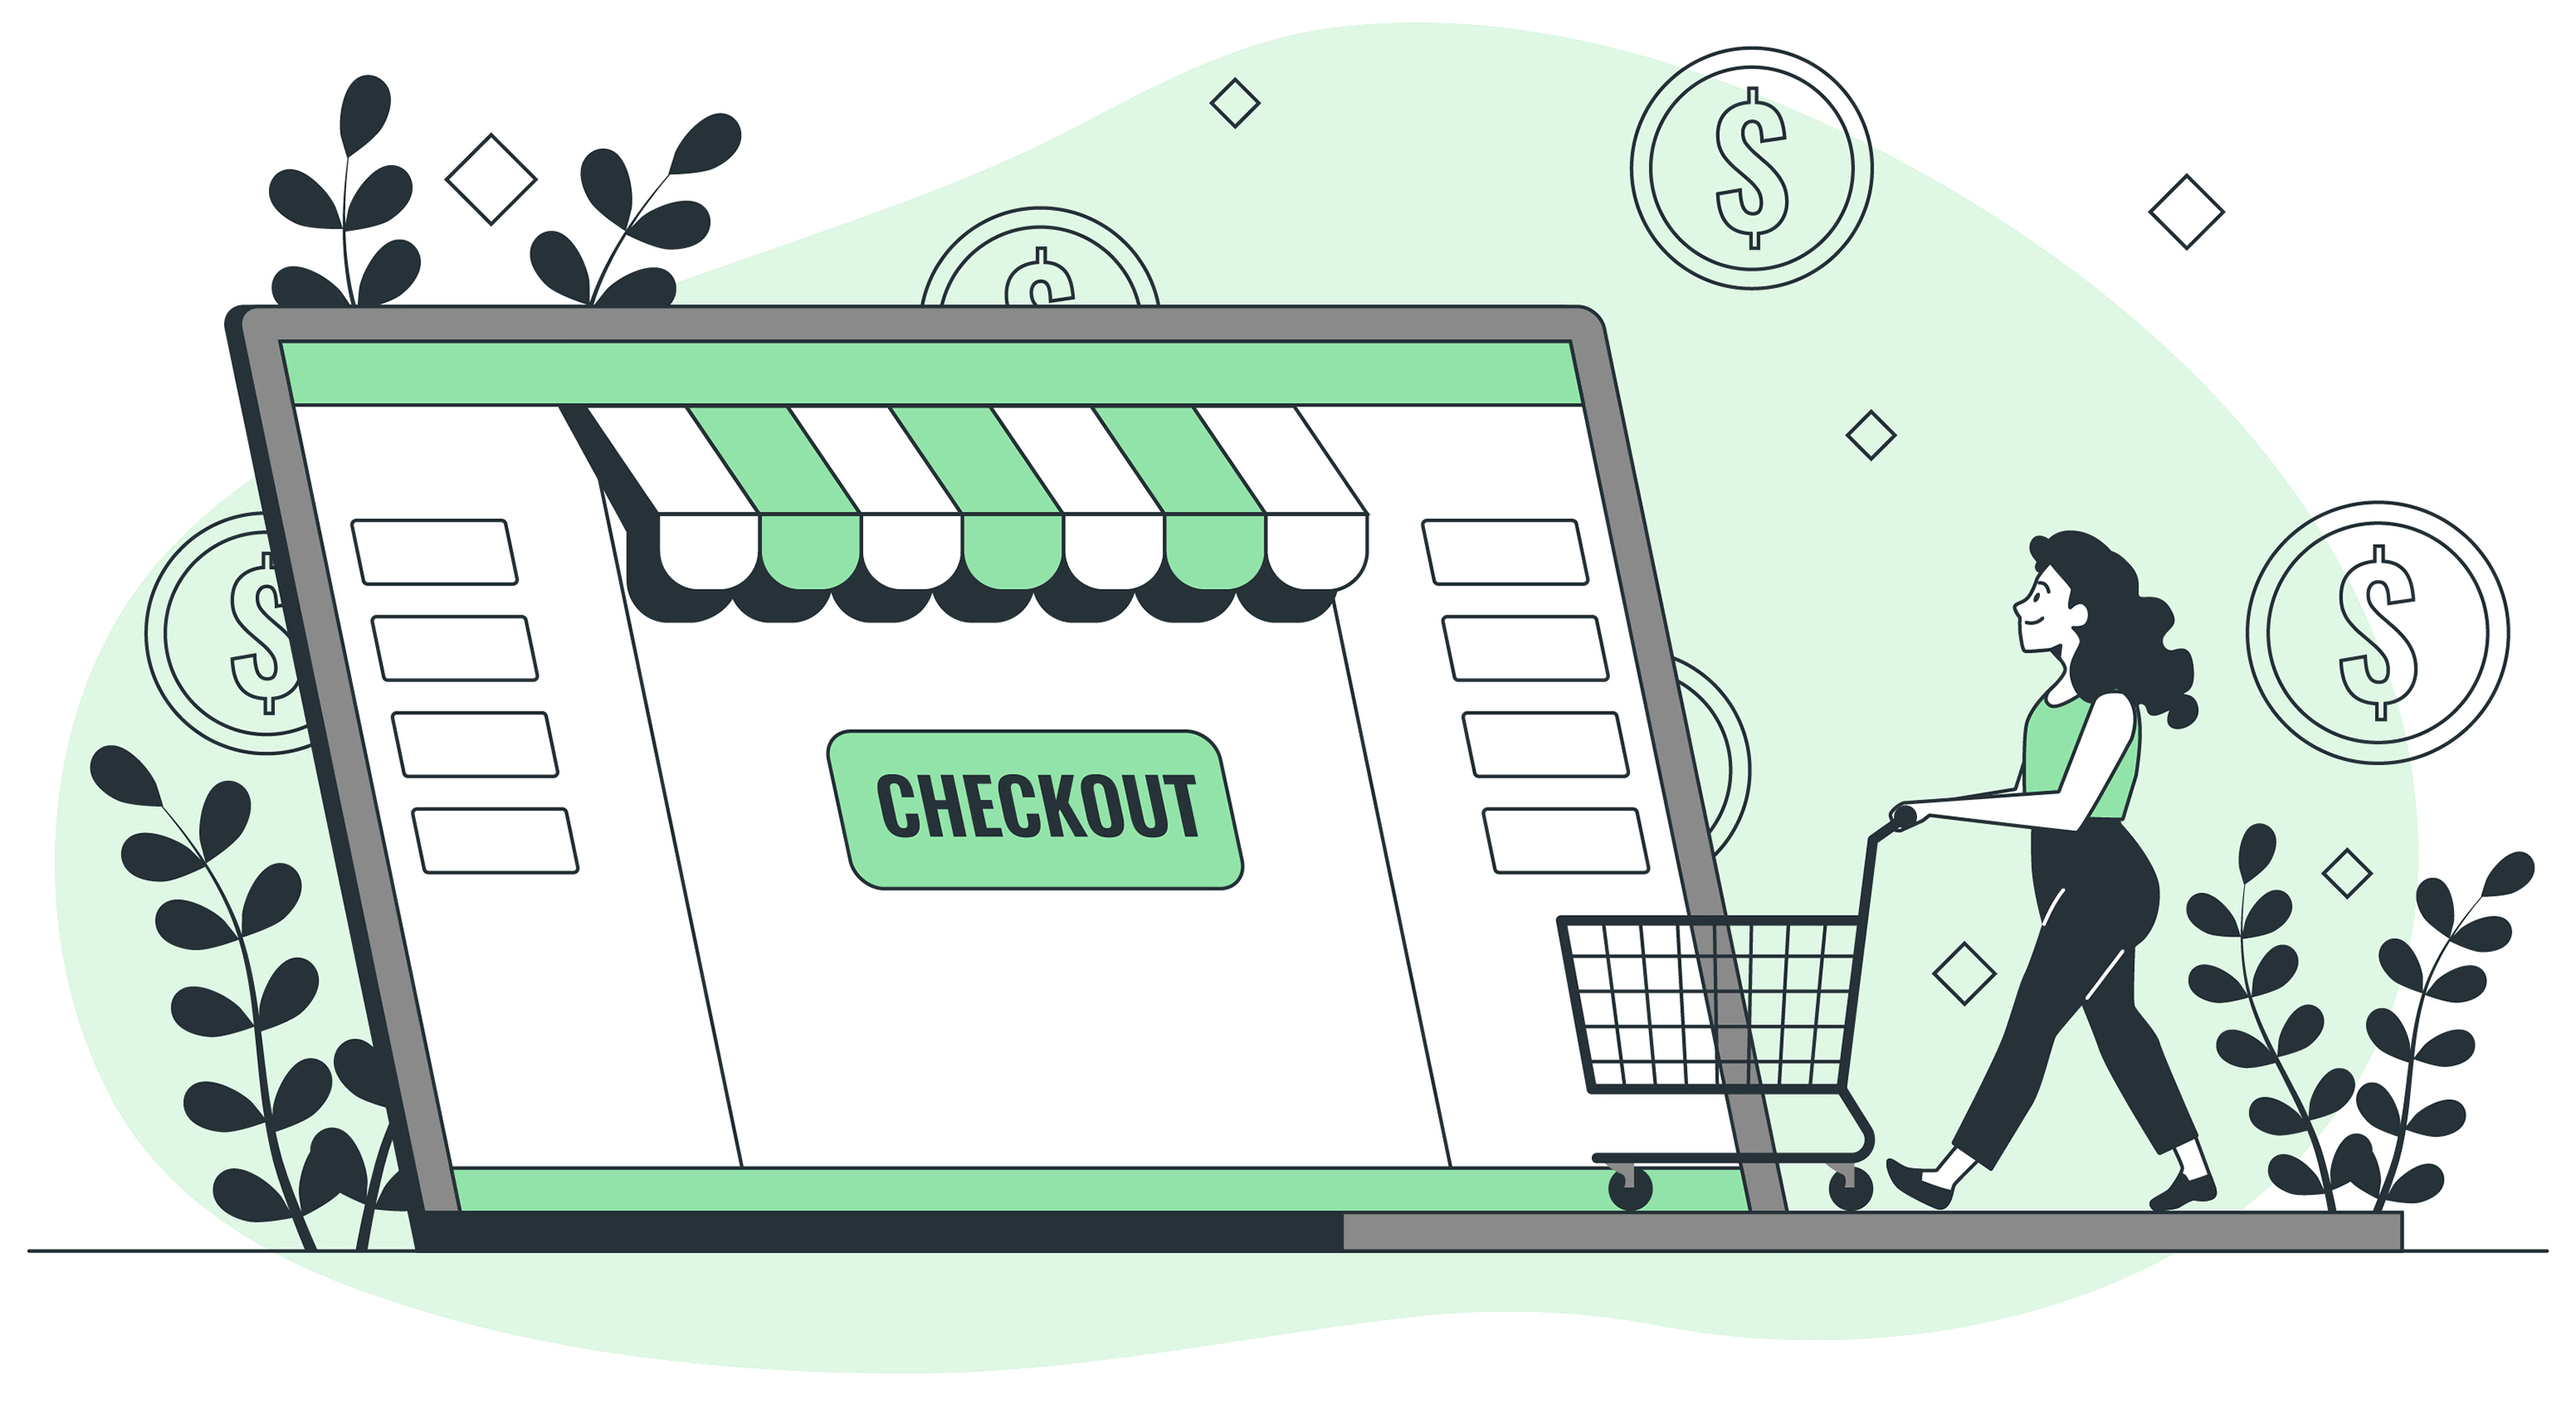
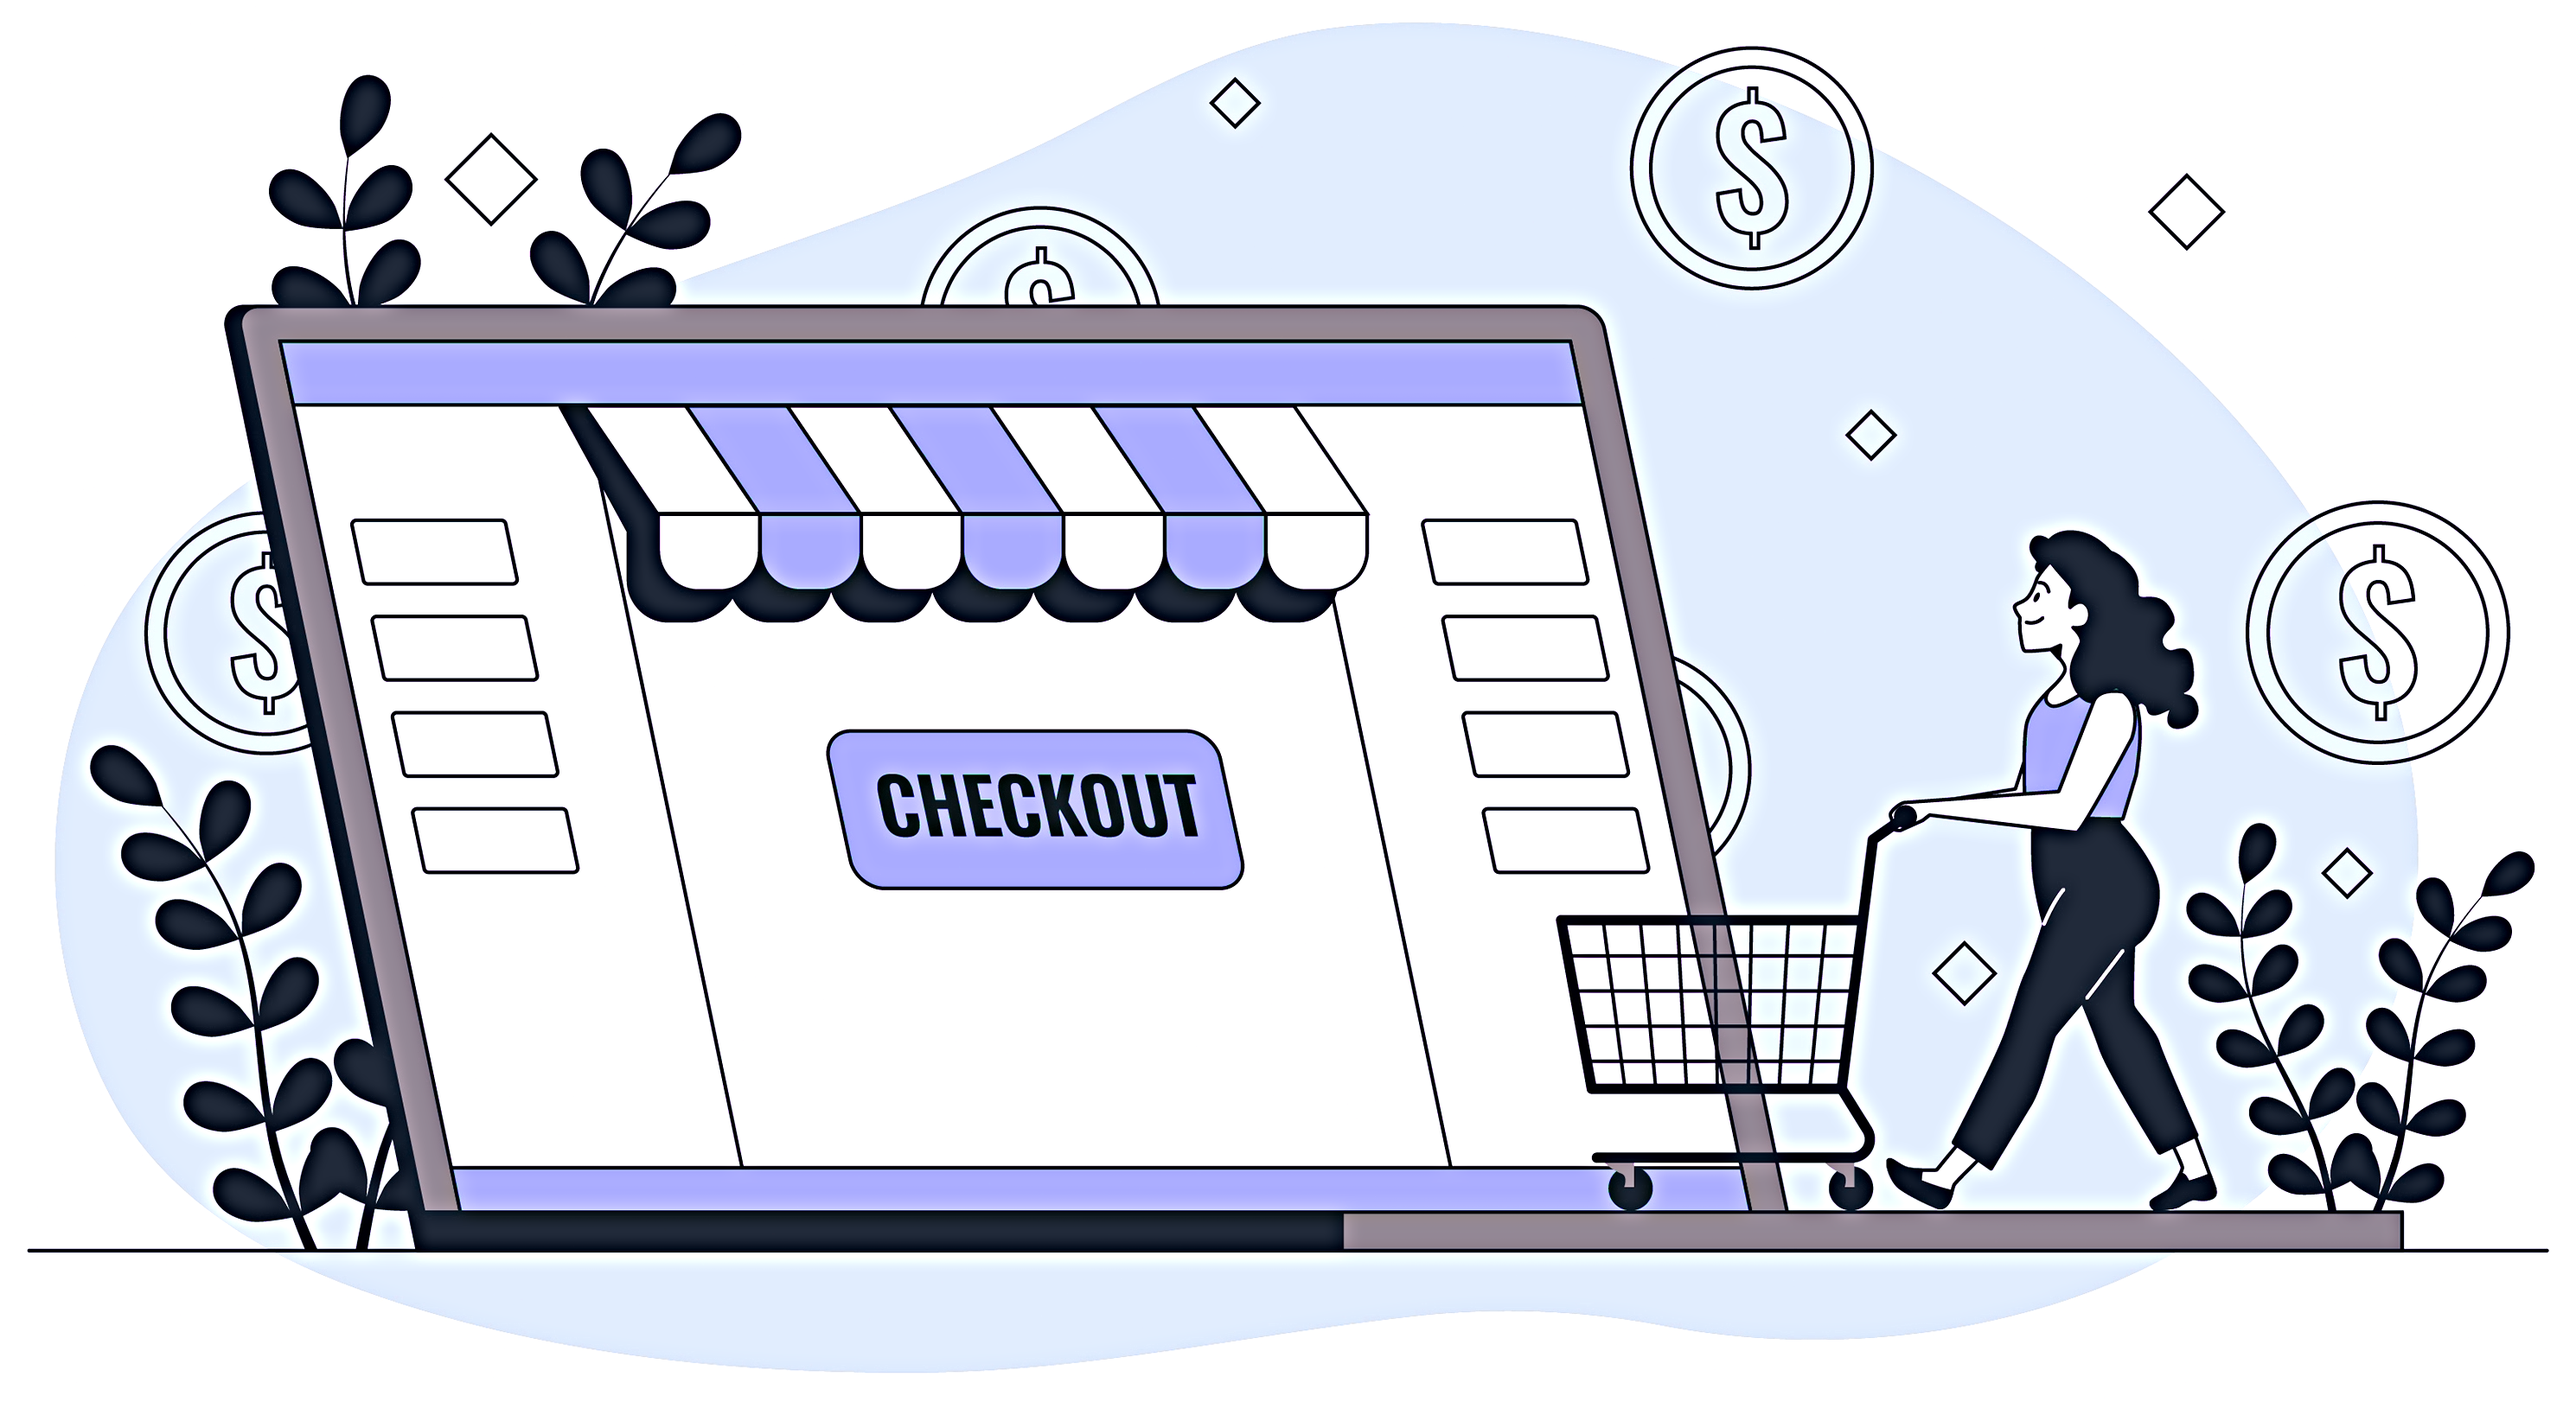
new-theme

diff --git a/pages/_app.js b/pages/_app.js
@@ -12,7 +12,9 @@ export default function App({ Component, pageProps }) {
   const [total, setTotal] = useState(0);
   const [user, setUser] = useState({ value: null });
   const [key, setKey] = useState();
+  const [dark, setDark] = useState(false);
   const router = useRouter();
+
   const [progress, setProgress] = useState(0);
 
   useEffect(() => {
@@ -131,6 +133,7 @@ export default function App({ Component, pageProps }) {
           user={user}
           key={key}
           cart={cart}
+          dark={dark}
           addtoCart={addtoCart}
           removefromCart={removefromCart}
           clearCart={clearCart}
@@ -139,6 +142,7 @@ export default function App({ Component, pageProps }) {
         />
       )}
       <Component
+        dark={dark}
         cart={cart}
         addtoCart={addtoCart}
         removefromCart={removefromCart}
@@ -147,7 +151,7 @@ export default function App({ Component, pageProps }) {
         buyNow={buyNow}
         {...pageProps}
       />
-      <Footer />
+      <Footer dark={dark} />
     </>
   );
 }

diff --git a/pages/checkout.js b/pages/checkout.js
@@ -12,6 +12,7 @@ const Checkout = ({ cart, clearCart, addtoCart, removefromCart, total }) => {
   const [phone, setPhone] = useState("");
   const [address, setAddress] = useState("");
   const [pincode, setPincode] = useState("");
+
   const [city, setCity] = useState("");
   const [state, setState] = useState("");
   const [disable, setDisable] = useState(true);

diff --git a/components/Navbar.js b/components/Navbar.js
@@ -21,6 +21,7 @@ const Navbar = ({
 }) => {
   const [dropdown, setDropdown] = useState(false);
   const [sidebar, setSidebar] = useState(false);
+
   const router = useRouter();
 
   useEffect(() => {

diff --git a/pages/index.js b/pages/index.js
@@ -1,5 +1,6 @@
 import Head from "next/head";
 import Image from "next/image";
+import { useState } from "react";
 
 export default function Home() {
   return (

diff --git a/pages/contact.js b/pages/contact.js
@@ -1,5 +1,5 @@
 import Head from "next/head";
-import React from "react";
+import React, { useState } from "react";
 
 const Contact = () => {
   return (

diff --git a/pages/about.js b/pages/about.js
@@ -1,5 +1,5 @@
 import Head from "next/head";
-import React from "react";
+import React, { useState } from "react";
 
 const About = () => {
   return (

diff --git a/components/Footer.js b/components/Footer.js
@@ -1,4 +1,4 @@
-import React from "react";
+import React, { useState } from "react";
 import Link from "next/link";
 
 const Footer = () => {
